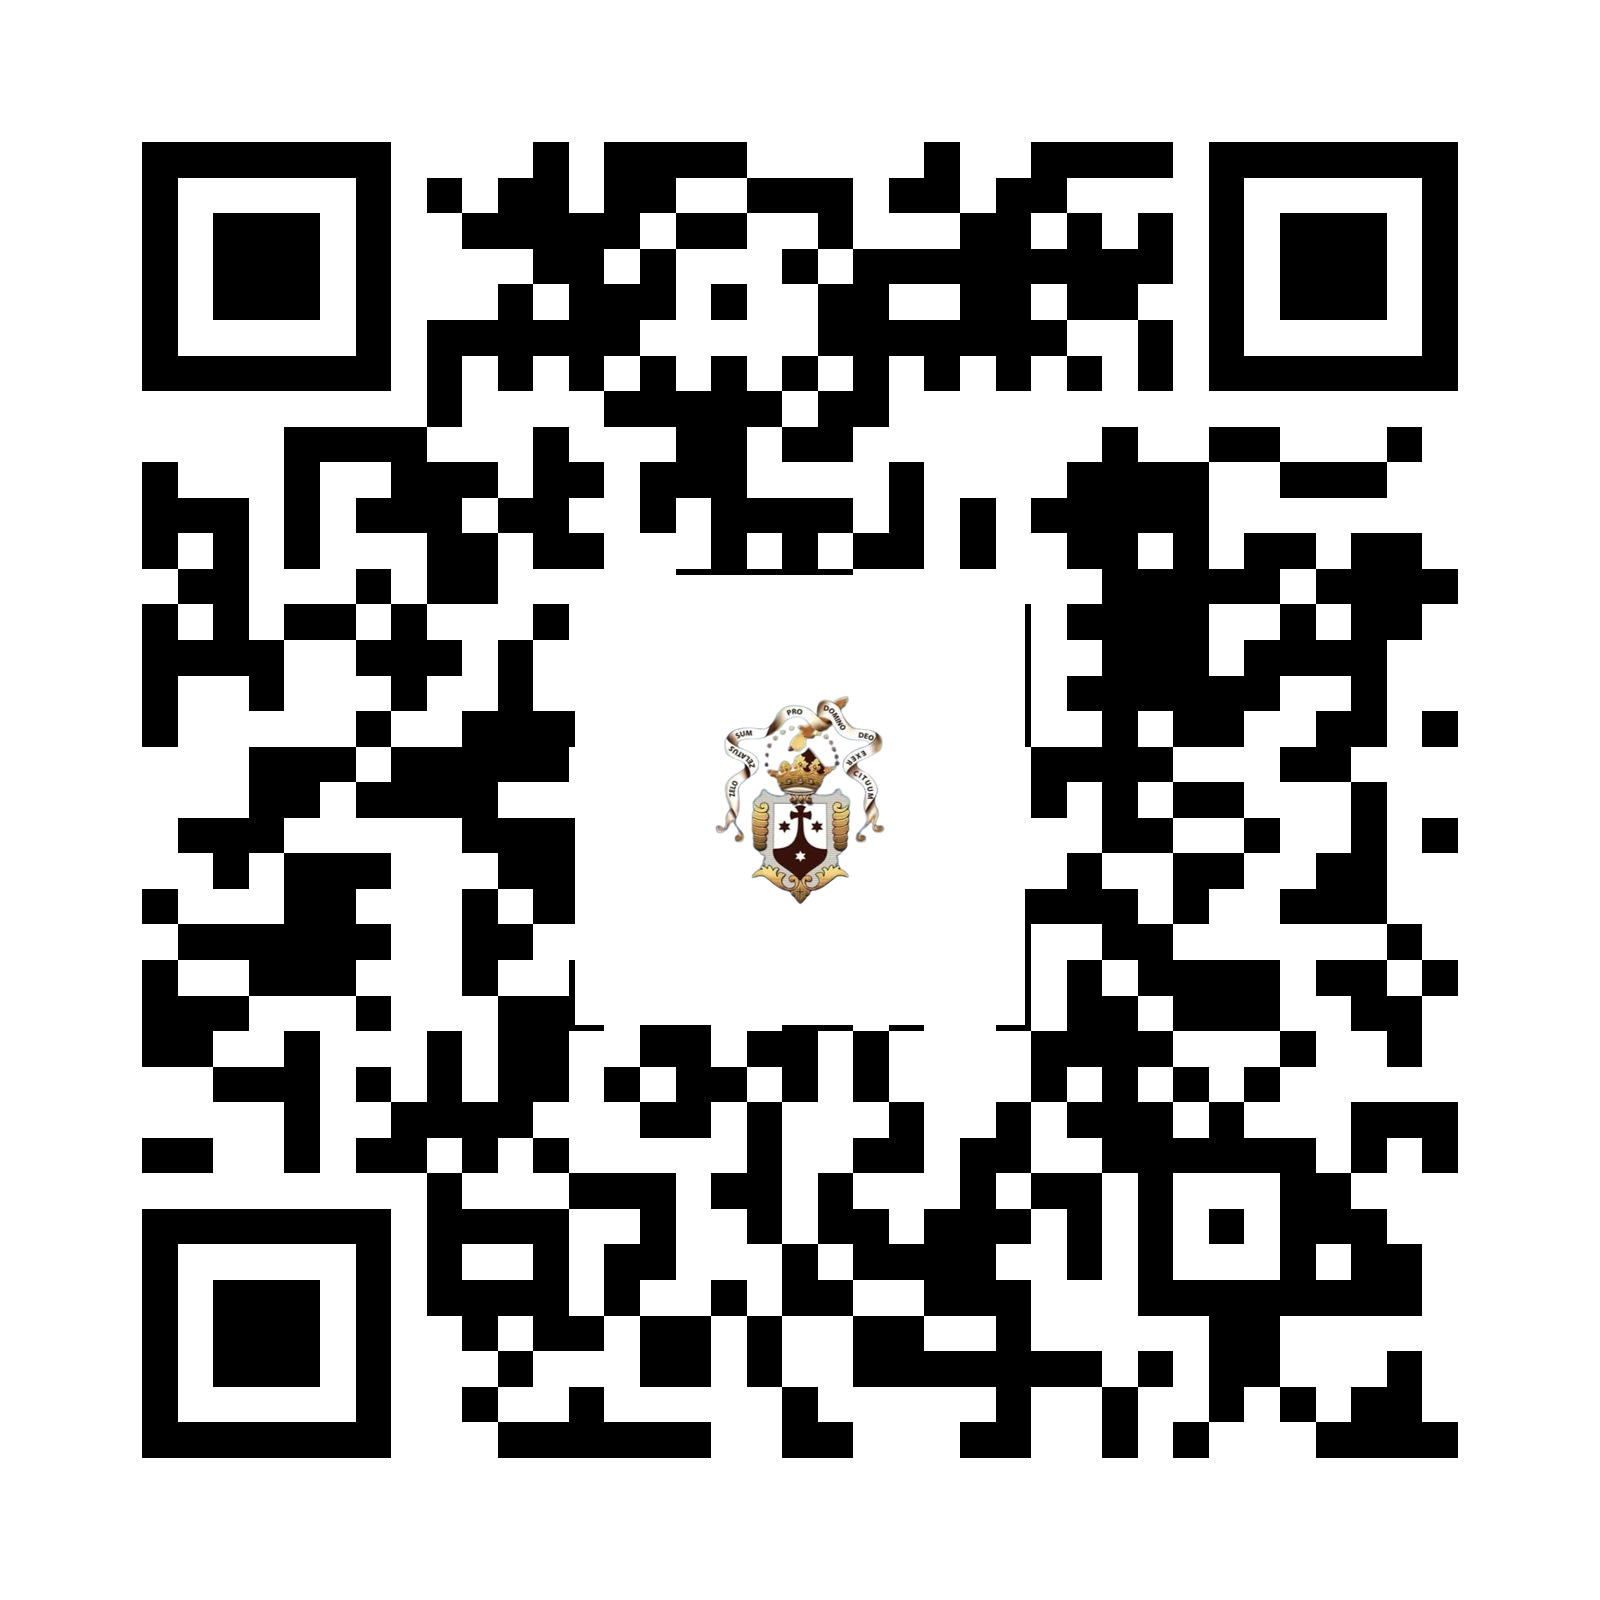
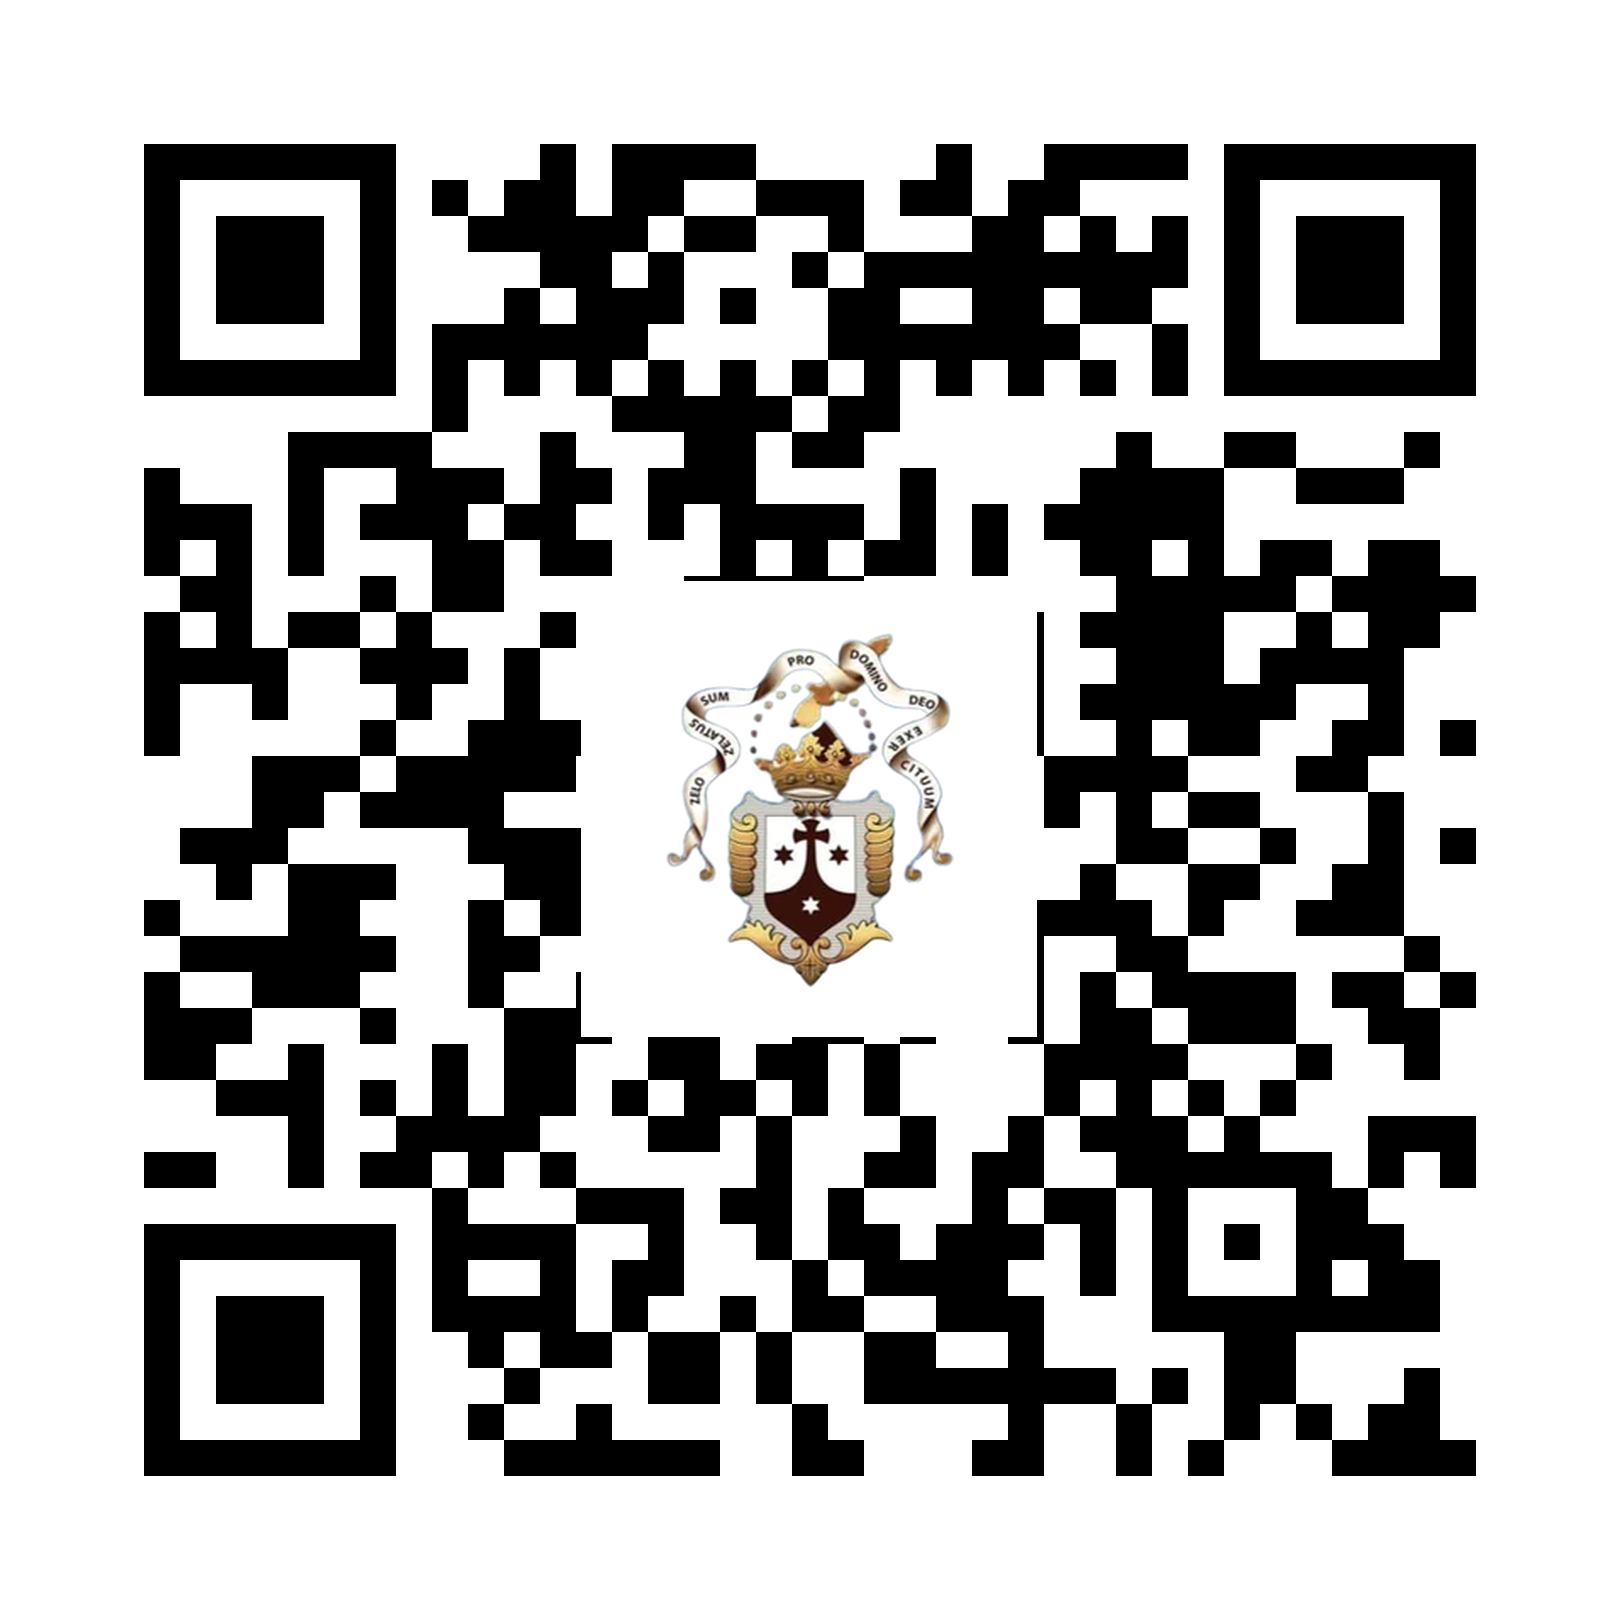
Reservar URL de Cajonería y Ventana de mármol + QR verificados
Las dos piezas todavía no tienen RA, pero sus carpetas existen para que el
equipo pueda mandar a imprimir el QR ya: cuando la experiencia esté lista se
reemplaza el motor sin tocar el código pegado en la sala.

shared/proxima-pieza.js: portada institucional (con créditos y logos) y luego
un aviso de "en preparación", para que quien escanee hoy entienda qué pasa en
vez de ver una pantalla vacía. La cámara se pide en paralelo y NO bloquea: si
esperáramos la respuesta del permiso, un visitante que no lo conteste se
quedaba con el "cargando" para siempre, y acá nada depende de la cámara aún.

QR: se generan con la misma receta visual del generador del proyecto (nivel H,
quiet zone 4, 1600px, logo 22%), pero ahora VERIFICANDO que cada PNG
decodifique de verdad. Hacía falta: con URLs cortas el QR sale con pocos
módulos y el logo tapa demasiado -> ilegible. En vez de achicar el logo (rompe
la consistencia con los ya impresos) se sube la versión del QR hasta que lee.
La auditoría de los 42 QR encontró uno ROTO que ya estaba en el repo,
salvilla/qr-carmelitas.png; queda regenerado y legible.

FALTA confirmar contra el Excel el nombre oficial y la ficha de las dos piezas
nuevas (hoy llevan un provisorio mínimo).

Changed region(s): [[0.4062, 0.375, 0.5938, 0.625]]

diff --git a/Ventana_de_marmol/index.html b/Ventana_de_marmol/index.html
@@ -1,0 +1,69 @@
+<!DOCTYPE html>
+<html lang="es">
+<head>
+  <meta charset="UTF-8" />
+  <meta name="viewport" content="width=device-width, initial-scale=1, maximum-scale=1, user-scalable=no, viewport-fit=cover" />
+  <title>RA · Ventana de mármol — Museo Ayacucho</title>
+  <link rel="stylesheet" href="../shared/styles.css?v=14" />
+  <style>
+    /* Aviso de "todavía no está lista". Se muestra en vez del análisis. */
+    #proxima { position: fixed; inset: 0; z-index: 6; display: none;
+      flex-direction: column; align-items: center; justify-content: center;
+      gap: 14px; text-align: center; padding: 24px;
+      background: radial-gradient(120% 70% at 50% 45%, #0b0910cc, #0b0910f2); }
+    #proxima.on { display: flex; }
+    #proxima .sello { width: 54px; height: 54px; border-radius: 50%;
+      border: 1px solid #c9a24b55; display: flex; align-items: center;
+      justify-content: center; color: var(--gold); font-size: 15px; font-weight: 700; }
+    #proxima h2 { font-size: 18px; font-weight: 700; margin: 0; max-width: 300px; }
+    #proxima p { font-size: 13px; line-height: 1.5; opacity: .75; max-width: 300px; margin: 0; }
+    #proxima a { color: var(--gold); font-size: 13px; margin-top: 6px; }
+  </style>
+</head>
+<body>
+  <div id="ar"></div>
+
+  <div id="topbar">
+    <div id="titulo">…</div>
+    <div id="subtitulo"></div>
+  </div>
+
+  <!-- Aviso provisional: esta pieza aún no tiene su realidad aumentada -->
+  <div id="proxima">
+    <div class="sello">RA</div>
+    <h2>Esta pieza estará disponible muy pronto</h2>
+    <p>Su análisis en realidad aumentada está en preparación. Volvé a escanear
+       este mismo código más adelante para verlo.</p>
+    <a href="../">Ver las demás piezas</a>
+  </div>
+
+  <div id="loading">
+    <div class="centro">
+      <div class="sello">RA</div>
+      <div class="expo">Un claustro abierto al mundo a través del arte</div>
+      <div class="sede">Monasterio de Carmelitas Descalzas de Santa Teresa · Ayacucho</div>
+      <div class="barra"><i></i></div>
+      <div class="estado">Preparando la realidad aumentada…</div>
+    </div>
+    <div class="equipo">
+      <span class="rol">Investigaci&oacute;n cient&iacute;fica</span><br>
+      Andr&eacute;s De Leo<br>
+      Diana Castillo Cerf<br>
+      Jimena Caridad Tello Hijar<br>
+      <span class="rol rol2">Realidad aumentada</span><br>
+      Carlos Raith Bravo Valdivia<br>
+      Giancarlo Kaqui Valenzuela
+    </div>
+    <div class="creditos">
+      <img class="l-utec" src="../shared/logos/utec.webp" width="555" height="126"
+           alt="UTEC · Centro de Investigación y Conservación del Patrimonio" />
+      <img class="l-embajada" src="../shared/logos/embajada.webp" width="303" height="114"
+           alt="Embajada de los Estados Unidos de América en Lima" />
+    </div>
+  </div>
+  <div id="error"></div>
+
+  <script src="config.js?v=1"></script>
+  <script src="../shared/proxima-pieza.js?v=2"></script>
+</body>
+</html>

diff --git a/Cajoneria/index.html b/Cajoneria/index.html
@@ -1,0 +1,69 @@
+<!DOCTYPE html>
+<html lang="es">
+<head>
+  <meta charset="UTF-8" />
+  <meta name="viewport" content="width=device-width, initial-scale=1, maximum-scale=1, user-scalable=no, viewport-fit=cover" />
+  <title>RA · Cajonería — Museo Ayacucho</title>
+  <link rel="stylesheet" href="../shared/styles.css?v=14" />
+  <style>
+    /* Aviso de "todavía no está lista". Se muestra en vez del análisis. */
+    #proxima { position: fixed; inset: 0; z-index: 6; display: none;
+      flex-direction: column; align-items: center; justify-content: center;
+      gap: 14px; text-align: center; padding: 24px;
+      background: radial-gradient(120% 70% at 50% 45%, #0b0910cc, #0b0910f2); }
+    #proxima.on { display: flex; }
+    #proxima .sello { width: 54px; height: 54px; border-radius: 50%;
+      border: 1px solid #c9a24b55; display: flex; align-items: center;
+      justify-content: center; color: var(--gold); font-size: 15px; font-weight: 700; }
+    #proxima h2 { font-size: 18px; font-weight: 700; margin: 0; max-width: 300px; }
+    #proxima p { font-size: 13px; line-height: 1.5; opacity: .75; max-width: 300px; margin: 0; }
+    #proxima a { color: var(--gold); font-size: 13px; margin-top: 6px; }
+  </style>
+</head>
+<body>
+  <div id="ar"></div>
+
+  <div id="topbar">
+    <div id="titulo">…</div>
+    <div id="subtitulo"></div>
+  </div>
+
+  <!-- Aviso provisional: esta pieza aún no tiene su realidad aumentada -->
+  <div id="proxima">
+    <div class="sello">RA</div>
+    <h2>Esta pieza estará disponible muy pronto</h2>
+    <p>Su análisis en realidad aumentada está en preparación. Volvé a escanear
+       este mismo código más adelante para verlo.</p>
+    <a href="../">Ver las demás piezas</a>
+  </div>
+
+  <div id="loading">
+    <div class="centro">
+      <div class="sello">RA</div>
+      <div class="expo">Un claustro abierto al mundo a través del arte</div>
+      <div class="sede">Monasterio de Carmelitas Descalzas de Santa Teresa · Ayacucho</div>
+      <div class="barra"><i></i></div>
+      <div class="estado">Preparando la realidad aumentada…</div>
+    </div>
+    <div class="equipo">
+      <span class="rol">Investigaci&oacute;n cient&iacute;fica</span><br>
+      Andr&eacute;s De Leo<br>
+      Diana Castillo Cerf<br>
+      Jimena Caridad Tello Hijar<br>
+      <span class="rol rol2">Realidad aumentada</span><br>
+      Carlos Raith Bravo Valdivia<br>
+      Giancarlo Kaqui Valenzuela
+    </div>
+    <div class="creditos">
+      <img class="l-utec" src="../shared/logos/utec.webp" width="555" height="126"
+           alt="UTEC · Centro de Investigación y Conservación del Patrimonio" />
+      <img class="l-embajada" src="../shared/logos/embajada.webp" width="303" height="114"
+           alt="Embajada de los Estados Unidos de América en Lima" />
+    </div>
+  </div>
+  <div id="error"></div>
+
+  <script src="config.js?v=1"></script>
+  <script src="../shared/proxima-pieza.js?v=2"></script>
+</body>
+</html>

diff --git a/shared/proxima-pieza.js b/shared/proxima-pieza.js
@@ -1,0 +1,51 @@
+/*  MOTOR PROVISIONAL — pieza cuya RA todavía no está hecha.
+ *
+ *  Sirve para RESERVAR LA URL: así el equipo puede mandar a imprimir el QR hoy,
+ *  y cuando la RA esté lista se reemplaza este motor por el de la pieza sin
+ *  tocar el QR ya pegado en la sala.
+ *
+ *  Hace lo mismo que las demás hasta donde puede: pantalla de carga
+ *  institucional (con créditos y logos) y la cámara en vivo de fondo. Lo único
+ *  que cambia es que, en vez del análisis, muestra un aviso de que la pieza
+ *  está en preparación -- así el visitante que escanee hoy entiende qué pasa
+ *  en vez de ver una pantalla vacía o un error.
+ *
+ *  La cámara NO bloquea: se pide en paralelo y el aviso aparece igual pasado
+ *  el tiempo de portada. Si esperáramos la respuesta del permiso, un visitante
+ *  que no lo conteste (o que lo rechace en un celular que no avisa) se queda
+ *  con el "cargando" para siempre -- y acá no hay nada que dependa de la
+ *  cámara todavía.
+ *
+ *  No usa MindAR ni three.js: no hay nada que rastrear ni que dibujar aún.
+ */
+const CFG = window.MUSEO_CONFIG || {};
+const $ = (id) => document.getElementById(id);
+
+function start() {
+  $("titulo").textContent = CFG.titulo || "";
+  // Mismo criterio que el resto: un dato por línea (#subtitulo usa pre-line).
+  $("subtitulo").textContent = (CFG.subtitulo || "").replace(/\s*·\s*/g, "\n");
+
+  // Cámara de fondo, en paralelo y sin bloquear nada.
+  if (navigator.mediaDevices && navigator.mediaDevices.getUserMedia) {
+    navigator.mediaDevices.getUserMedia({ video: { facingMode: "environment" } })
+      .then((stream) => {
+        const video = document.createElement("video");
+        video.autoplay = true; video.muted = true; video.playsInline = true;
+        video.style.cssText = "position:fixed;inset:0;width:100%;height:100%;object-fit:cover;background:#000;";
+        $("ar").appendChild(video);
+        video.srcObject = stream;
+        return video.play().catch(() => {});   // algunos navegadores exigen gesto
+      })
+      .catch((e) => { console.warn("Sin cámara (la pieza no la necesita todavía):", e.message); });
+  }
+
+  // Un respiro para que la portada (y los créditos) alcancen a leerse, y se
+  // pasa al aviso pase lo que pase con el permiso de cámara.
+  setTimeout(() => {
+    $("loading").style.display = "none";
+    $("proxima").classList.add("on");
+  }, 2000);
+}
+
+window.addEventListener("DOMContentLoaded", start);

diff --git a/index.html b/index.html
@@ -39,6 +39,10 @@
     <a class="card" href="relicario/"><b>Relicario</b><span>Original, rayos X y microscopía</span></a>
     <a class="card" href="Florero/"><b>Florero</b><span>Rayos X y composición</span></a>
     <a class="card" href="Jesus_Nazareno/"><b>Jesús Nazareno</b><span>El Cristo sale de la pintura</span></a>
+    <!-- Piezas con la URL ya reservada (el QR se puede imprimir), pero cuya
+         realidad aumentada todavía está en preparación. -->
+    <a class="card" href="Cajoneria/"><b>Cajonería</b><span>En preparación</span></a>
+    <a class="card" href="Ventana_de_marmol/"><b>Ventana de mármol</b><span>En preparación</span></a>
   </div>
   <footer>Escanea el QR junto a cada obra · experiencia sin instalar apps</footer>
 </body>

diff --git a/Ventana_de_marmol/config.js b/Ventana_de_marmol/config.js
@@ -1,0 +1,14 @@
+/*  CONFIG DE PIEZA — Ventana de mármol
+ *  PROVISIONAL: la RA de esta pieza todavía no está hecha. Esta carpeta existe
+ *  para RESERVAR LA URL, así el QR se puede imprimir y pegar en la sala desde
+ *  ya; cuando la experiencia esté lista se reemplaza el motor sin tocar el QR.
+ *
+ *  ⚠ FALTA confirmar contra el Excel del equipo (TAREAS.xlsx, col "Nombres
+ *  oficiales"): el nombre exacto de la pieza y su ficha (material, época y qué
+ *  va a mostrar la RA). Lo de abajo es un provisorio mínimo.
+ */
+window.MUSEO_CONFIG = {
+  id: "ventana-marmol",
+  titulo: "Ventana de mármol",
+  subtitulo: ""
+};

diff --git a/Cajoneria/config.js b/Cajoneria/config.js
@@ -1,0 +1,14 @@
+/*  CONFIG DE PIEZA — Cajonería
+ *  PROVISIONAL: la RA de esta pieza todavía no está hecha. Esta carpeta existe
+ *  para RESERVAR LA URL, así el QR se puede imprimir y pegar en la sala desde
+ *  ya; cuando la experiencia esté lista se reemplaza el motor sin tocar el QR.
+ *
+ *  ⚠ FALTA confirmar contra el Excel del equipo (TAREAS.xlsx, col "Nombres
+ *  oficiales"): el nombre exacto de la pieza y su ficha (material, época y qué
+ *  va a mostrar la RA). Lo de abajo es un provisorio mínimo.
+ */
+window.MUSEO_CONFIG = {
+  id: "cajoneria",
+  titulo: "Cajonería",
+  subtitulo: ""
+};
